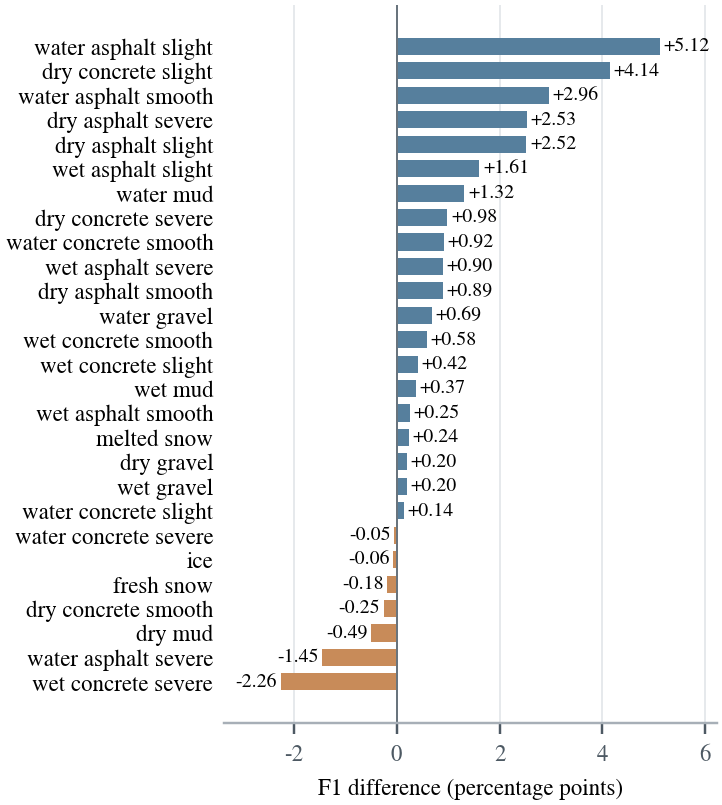
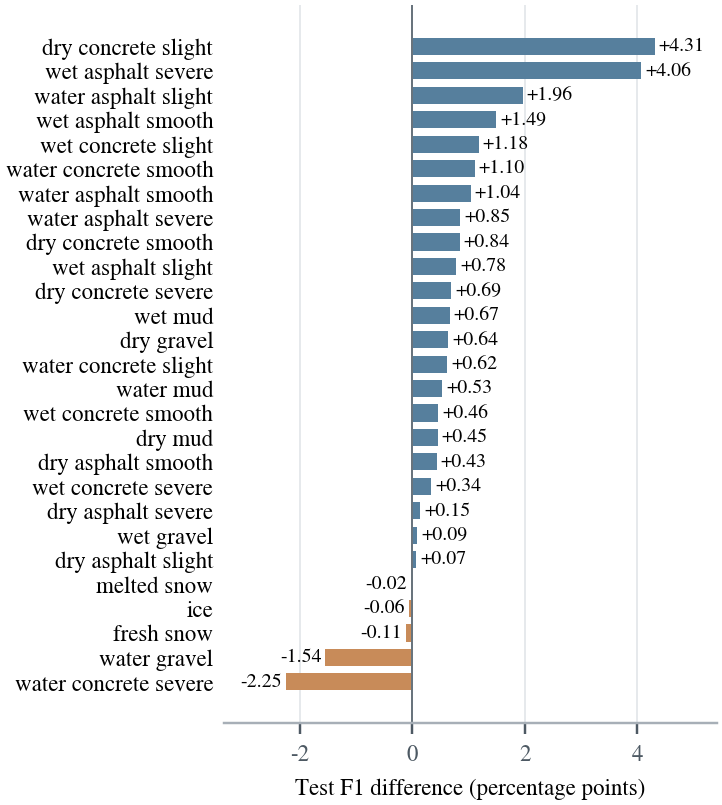
docs: align abstract and class-wise test F1 figure with latest manuscript

diff --git a/README.md b/README.md
@@ -22,7 +22,7 @@
 
 ## Abstract
 
-Camera-based road surface classification requires accurate fine-grained recognition of surface condition, material, and unevenness under tight onboard compute budgets. We present HybridRSC, a compact four-stage family (T, S, M, and L; 1.54–8.75 M parameters) for 27-class road-patch classification. HybridRSC pairs high-resolution convolutional stages with two-dimensional gated depthwise-convolutional mixing and low-resolution full-map self-attention to capture local texture and broader spatial context at compact model scales. Evaluated across 25 compact models from eight families on the 49,500-patch official RSCD test split under a unified three-view protocol, HybridRSC-M (3.906 M) achieves 92.64% accuracy and 90.42% Macro-F1, improving over released RSPNet-L by 0.59 and 0.69 percentage points while lowering shared-session GPU batch-1 latency by 66.1% and unified end-to-end median latency by 51.1% on an RTX 5090. HybridRSC-L (8.754 M) reaches 92.94% accuracy and 90.82% Macro-F1, demonstrating favorable accuracy–efficiency trade-offs across compact budgets.
+Camera-based road surface classification requires accurate fine-grained recognition of surface condition, material, and unevenness under tight onboard compute budgets. We present HybridRSC, a compact four-stage family (T, S, M, and L; 1.54–8.75 M parameters) for 27-class road-patch classification. HybridRSC pairs high-resolution convolutional stages with two-dimensional gated depthwise-convolutional mixing and low-resolution full-map self-attention to capture local texture and broader spatial context at compact model scales. Evaluated across 25 compact models from eight families on the 49,500-patch official RSCD test split under a unified three-view protocol, HybridRSC-M (3.906 M) achieves 92.64% accuracy and 90.42% Macro-F1, improving over released RSPNet-L by 0.59 and 0.69 percentage points while lowering shared-session FP32 eager GPU batch-1 latency by 66.1% and unified end-to-end median latency by 51.1% on an RTX 5090. HybridRSC-L (8.754 M) reaches 92.94% accuracy and 90.82% Macro-F1, demonstrating favorable accuracy–efficiency trade-offs across compact budgets.
 
 ## Performance
 
@@ -102,10 +102,10 @@ Bold values mark the best displayed result within each parameter-budget group, i
 ### Class-wise recognition
 
 <p align="center">
-  <img src="assets/classwise_f1_difference.png" alt="Class-wise validation F1 differences between HybridRSC-M and RSPNet-L" width="540">
+  <img src="assets/classwise_f1_difference.png" alt="Class-wise test F1 differences between HybridRSC-M and RSPNet-L" width="540">
 </p>
 
-Per-class validation F1 differences between HybridRSC-M and released RSPNet-L on the same 19,860 road patches. Positive values indicate higher F1 for HybridRSC-M; negative values indicate higher F1 for RSPNet-L. Values are percentage-point differences.
+Per-class official-test F1 differences between HybridRSC-M and released RSPNet-L across all 49,500 road patches. Positive values indicate higher F1 for HybridRSC-M; negative values indicate higher F1 for RSPNet-L. Values are percentage-point differences.
 
 ## Installation
 
